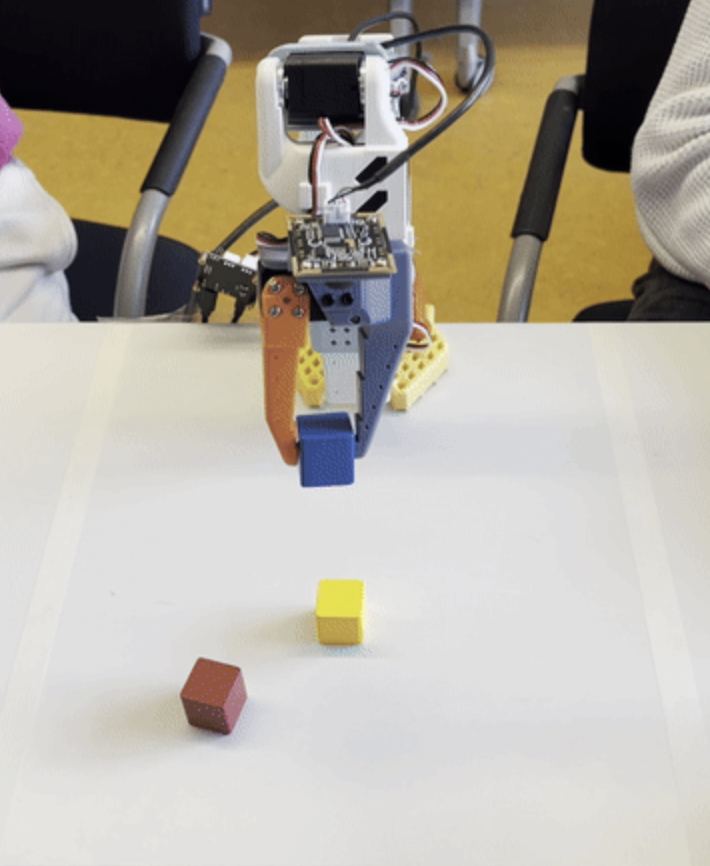
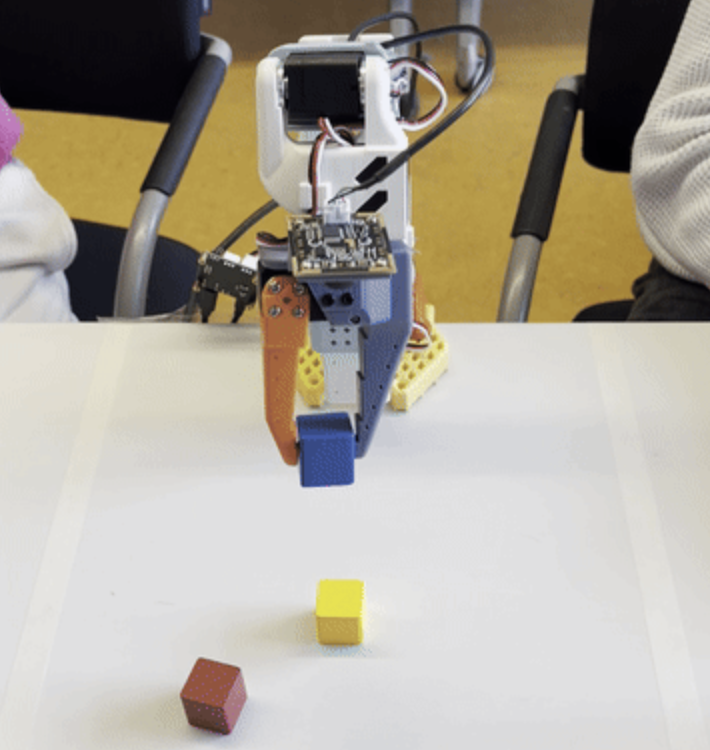
feat: update resources and projects

Changed region(s): [[0.0, 0.0, 1.0, 1.0], [0.9915, 0.9813, 1.0, 1.0], [0.9606, 0.9507, 0.9915, 0.9813]]

diff --git a/assets/css/main.css b/assets/css/main.css
@@ -82,6 +82,21 @@ main h1 {
   border-width: 0.01rem;
 }
 
+.resources-page h2 {
+  font-size: 1.3rem;
+  font-weight: 400;
+  color: var(--default-color);
+  margin-top: 1.5rem;
+}
+
+.resources-page code {
+  font-family: SFMono-Regular, Menlo, Consolas, monospace;
+  color: var(--default-color);
+  background-color: color-mix(in srgb, var(--default-color), transparent 92%);
+  padding: 0.1em 0.35em;
+  border-radius: 0.25rem;
+}
+
 /* Default paragraph style */
 main p {
   text-align: justify;
@@ -350,7 +365,8 @@ footer {
   box-shadow: 0 2px 10px rgba(0, 0, 0, 0.1);
   overflow: hidden;
   transition: transform 0.3s ease, box-shadow 0.3s ease;
-  min-height: 200px;
+  min-height: 240px;
+  width: 100%;
 }
 
 .project-card:hover {
@@ -370,12 +386,15 @@ footer {
   font-weight: 600;
   margin: 0;
   color: #333;
+  text-align: left;
+  border-bottom: none;
 }
 
 .project-date {
   color: var(--accent-color);
-  margin: 0;
+  margin: 0 0 0.15rem 0;
   white-space: nowrap;
+  text-align: left;
 }
 
 .project-tags {
@@ -397,9 +416,9 @@ footer {
 }
 
 .project-thumbnail {
-  flex: 1 1 0;
-  max-width: 50%;
-  min-width: 120px;
+  flex: 0 0 42%;
+  max-width: 42%;
+  min-width: 220px;
   display: flex;
   align-items: center;
   justify-content: center;
@@ -410,7 +429,7 @@ footer {
 .thumbnail-img {
   width: 100%;
   height: 100%;
-  object-fit: cover;
+  object-fit: contain;
   display: block;
 }
 
@@ -433,19 +452,20 @@ footer {
     flex-direction: column-reverse;
   }
   .project-thumbnail {
+    flex: none;
     max-width: 100%;
     width: 100%;
     min-width: auto;
-    height: 150px;
+    height: 220px;
   }
   .project-content {
     padding: 1rem;
   }
-  
+
   .project-title {
     font-size: 1rem;
   }
-  
+
   .project-date {
     font-size: 0.8rem;
   }
@@ -455,11 +475,11 @@ footer {
   .project {
     margin-bottom: 1.5rem;
   }
-  
+
   .project-thumbnail {
-    height: 120px;
+    height: 180px;
   }
-  
+
   .project-content {
     padding: 0.8rem;
   }

diff --git a/_includes/footer.html b/_includes/footer.html
@@ -11,6 +11,6 @@
     </a>
  </div>
 <div id="copyright">
-    &copy; 2026 Giacomo Cirò | Last update: June 2026
+    &copy; 2026 Giacomo Cirò | Last update: July 2026
 </div>
 </footer>

diff --git a/pages/resources.md b/pages/resources.md
@@ -4,7 +4,7 @@ title: Resources
 permalink: /resources/
 ---
 
-<section class="col-md-7 col-12">
+<section class="col-md-7 col-12 resources-page">
 <div class="d-flex justify-content-center quotes-disclaimer">
     <p>
         The resources on this page are shared to inspire curiosity and support learning. If you know of a valuable resource or have something insightful to share, feel free to reach out.
@@ -14,60 +14,71 @@ permalink: /resources/
 
 
 # Open Source
-I believe one of the greatest byproducts of the internet is large-scale collaboration. It fascinates me how people around the world manage to work together to advance open-source projects. I co-founded the [Bocconi Open Source Society (BOSS)](https://b-open.dev) to promote open source at my university, and I contribute to projects whenever I can. Here are some I've worked on:
+I believe one of the greatest byproducts of the internet is large-scale collaboration. People around the world manage to work together to advance open-source projects and build amazing projects. I co-founded the [Bocconi Open Source Society (BOSS)](https://b-open.dev) to promote open source at my university, and I contribute to projects whenever I can. Here are some I've worked on:
 
-- Fixed errors in the [Understanding Deep Learning](https://udlbook.github.io/udlbook/) textbook by Simon J.D. Prince (The MIT Press, 2023).
-- Fixed a bug in [TileDB-Vector-Search](https://github.com/TileDB-Inc/TileDB-Vector-Search/pull/580), a library for efficient out-of-core vector search.
-- Refactored an enum object in the [Conda](https://github.com/conda/conda/pull/15428) package manager.
-- I curate a [collection of code snippets](https://gist.github.com/giacomo-ciro) to improve the quality-of-life during your everyday tasks.
+- [Understanding Deep Learning](https://udlbook.github.io/udlbook/) textbook by Simon J.D. Prince (The MIT Press, 2023).
+- [TileDB-Vector-Search](https://github.com/TileDB-Inc/TileDB-Vector-Search/pull/580), a library for efficient out-of-core vector search.
+- [Conda](https://github.com/conda/conda/pull/15428) package manager.
 
-# Study Material
-Below are some of the resources I have found most valuable for learning, exploring, or reviewing topics in mathematics, statistics, computer science and machine learning:
+Check out my [collection of code snippets](https://gist.github.com/giacomo-ciro) to improve the quality-of-life during your everyday tasks.
 
-- **Mathematics & Statistics**:
-    - [3Blue1Brown](https://www.youtube.com/@3blue1brown/featured): Exceptional visual explanations of quantitative concepts; highly recommended series on transformers and neural networks.
-    - [Applied Linear Statistical Models](https://www.researchgate.net/publication/344587293_Applied_Linear_Statistical_Models) by M. H. Kutner: Foundational textbook for linear models.
-    - [The Elements of Statistical Learning](https://www.sas.upenn.edu/~fdiebold/NoHesitations/BookAdvanced.pdf) by T. Hastie, R. Tibshirani, and J. Friedman: Also used in my undergraduate machine learning course.
+# Resources by topic
+Resources I have found most valuable for learning, exploring, or reviewing different topics.
 
-- **Machine Learning & AI**:
-    - [Pattern Recognition and Machine Learning](https://www.microsoft.com/en-us/research/wp-content/uploads/2006/01/Bishop-Pattern-Recognition-and-Machine-Learning-2006.pdf) by C. M. Bishop: Core reference for pattern recognition and machine learning concepts.
-    - [Understanding Deep Learning](https://udlbook.github.io/udlbook/): Textbook for my graduate deep learning course. The [further reading](https://udlbook.github.io/udlbook/#:~:text=MORE-,Further%20reading,-Other%20articles%2C%20blogs) section is especially well curated.
-    - [Hugging Face Daily Papers](https://huggingface.co/papers): Daily feed of new model releases and research papers, with a focus on recent developments.
-    - [Andrej Karpathy](https://www.youtube.com/@AndrejKarpathy/videos): OpenAI co-founder sharing hands-on, advanced tutorials (e.g., building GPT from scratch).
-    - [Yannic Kilcher](https://www.youtube.com/@YannicKilcher): In-depth paper readings and walkthroughs.
+## Mathematics & Statistics
 
-- **Computer Science & Engineering**:
-    - [Operating System Concepts](https://os.ecci.ucr.ac.cr/slides/Abraham-Silberschatz-Operating-System-Concepts-10th-2018.pdf) by A. Silberschatz: Comprehensive overview of how operating systems work.
-    - [System Design Interview](https://bytes.usc.edu/~saty/courses/docs/data/SystemDesignInterview.pdf) by A. Xu: Concise yet thorough overview of system design, with each chapter focusing on a well-known system and curated further readings.
-    - [Simon Oz](https://www.youtube.com/@szymonozog7862): Comprehensive introduction to GPU architecture and GPU computing.
-    - [CUDA Tutorial](https://cuda-tutorial.readthedocs.io/en/latest/): Beginner-friendly tutorials for getting started with GPU programming using CUDA.
-    - [Tensor and Fully Sharded Data Parallelism](https://substack.com/@martynassubonis/p-154292281): Clear introduction to basic parallel computing concepts..
+- [3Blue1Brown](https://www.youtube.com/@3blue1brown/featured): Exceptional visual explanations of quantitative concepts; highly recommended series on transformers and neural networks.
+
+## Machine Learning & AI
+
+- [Understanding Deep Learning](https://udlbook.github.io/udlbook/): Textbook for my graduate deep learning course. The [further reading](https://udlbook.github.io/udlbook/#:~:text=MORE-,Further%20reading,-Other%20articles%2C%20blogs) section is especially well curated.
+- [Hugging Face Daily Papers](https://huggingface.co/papers): Daily feed of new model releases and research papers (focuses on implementations).
+- [Andrej Karpathy](https://www.youtube.com/@AndrejKarpathy/videos): OpenAI co-founder sharing hands-on, advanced tutorials (e.g., building GPT from scratch).
+- [Yannic Kilcher](https://www.youtube.com/@YannicKilcher): In-depth paper readings and walkthroughs.
+- [Maarten Grootendorst](https://www.maartengrootendorst.com/#:~:text=Here%20are%20a%20couple%20of%20visual%20guides%20that%20I%20am%20particularly%20proud%20of%3A): A psychologist turned AI engineer producing visual guides to ML concepts.
+- [NVIDIA NIM APIs](https://build.nvidia.com/models): API endpoints for many LLMs, several free to use, great for testing projects.
+- [Leaked System Prompts](https://github.com/asgeirtj/system_prompts_leaks): A collection of leaked system prompts from major AI providers.
+
+## Computer Science & Engineering
+
+- [Operating System Concepts](https://os.ecci.ucr.ac.cr/slides/Abraham-Silberschatz-Operating-System-Concepts-10th-2018.pdf): Comprehensive overview of how operating systems work.
+- [How Linux Works: What Every Superuser Should Know](https://nostarch.com/how-linux-works-3rd-edition): Thorough dive into the internals of Linux, aimed at building real systems-level understanding.
+- [System Design Interview](https://bytes.usc.edu/~saty/courses/docs/data/SystemDesignInterview.pdf): Concise yet thorough overview of system design, with each chapter focusing on a well-known system and curated further readings.
+- [Dive Into Design Patterns](https://refactoring.guru/design-patterns/book): Clear, example-driven guide to classic software design patterns.
+- [Simon Oz](https://www.youtube.com/@szymonozog7862): Comprehensive introduction to GPU architecture and GPU computing.
+- [CUDA Tutorial](https://cuda-tutorial.readthedocs.io/en/latest/): Beginner-friendly tutorials for getting started with GPU programming using CUDA.
+- [Tensor and Fully Sharded Data Parallelism](https://substack.com/@martynassubonis/p-154292281): Clear introduction to basic parallel computing concepts.
+- [Cloudflare Tunnel](https://developers.cloudflare.com/cloudflare-one/networks/connectors/cloudflare-tunnel/do-more-with-tunnels/local-management/create-local-tunnel/): Cool tool to expose a local server to the internet without opening ports on your router.
+
+## Finance
+
+- [A Random Walk Down Wall Street](https://www.amazon.com/Random-Walk-Down-Wall-Street/dp/1324035439): A classic and highly recommended book on investing and personal finance.
+- [Educati e Finanziati](https://www.youtube.com/playlist?list=PLfuzpc-H8qcdetz_Zwc5ILnbiG6eek_T8): Excellent personal finance course (Italy-centric).
+- [Money Guy Show](https://moneyguy.com/show/): Excellent personal finance course (US-centric).
+- [How I made $500k with machine learning](https://jspauld.com/post/35126549635/how-i-made-500k-with-machine-learning-and-hft/): Inspiring story of an independent software engineer who deployed a successful HFT strategy in 2009-2010.
+- [Max Dama on HFTs](https://open.spotify.com/episode/4PRVDkZwFiKVEk7XKwKcvo?si=oqOXRBQtTgKHUR3EMcwAjQ): Co-chairman at Headlands Technologies shares valuable insights on high-frequency trading and what it takes to succeed in the field.
+- [Quantitative Trading Summary](https://blog.headlandstech.com/2017/08/03/quantitative-trading-summary/): blog post from Headlands Technologies covering the fundamentals of quantitative trading. The entire blog is worth exploring.
+- [The Elements of Investing](https://www.amazon.com/Elements-Investing-Lessons-Every-Investor/dp/1119851416): A must-read, concise guide to personal finance.
 
 
 # Suggested Readings
-This section features articles, books, and blog posts I find especially insightful and recommend exploring:
-- [Demystifying the American Graduate Admissions Process](https://cs.stanford.edu/~rkarthik/DAGAP.pdf): A Stanford admissions committee member explains in detail the key factors and their weightings considered when reviewing MSc applications at top U.S. graduate schools.
-- [Should You Apply for a PhD in AI (2025-26)?](https://yashbhalgat.github.io/blog/phd-or-not-phd.html): An Oxford VGG PhD student (ex-Meta, ex-Qualcomm) discusses the pros and cons of pursuing a PhD in AI today, given the need of hyperscale clusters and research teams.
+Articles, books, and blog posts worth reading.
+
+- [Demystifying the American Graduate Admissions Process](https://cs.stanford.edu/~rkarthik/DAGAP.pdf): Stanford admissions committee member explains in detail the key factors and their weightings considered when reviewing MSc applications.
+- [Should You Apply for a PhD in AI (2025-26)?](https://yashbhalgat.github.io/blog/phd-or-not-phd.html): Oxford VGG PhD student (ex-Meta, ex-Qualcomm) discusses the pros and cons of pursuing a PhD in AI today, given the need of hyperscale clusters and research teams.
 - [The unconscious process that leads to creativity: how ‘incubation’ works](https://www.theguardian.com/wellness/2025/sep/10/creativity-unconscious-process-incubation): A look at how unconscious mental processes foster creativity.
 - [WhatsApp Encryption Overview](https://www.bitsoffreedom.nl/wp-content/uploads/WhatsApp-Security-Whitepaper.pdf): A technical whitepaper detailing WhatsApp's end-to-end encryption, including cryptographic primitives like AES, HMAC-SHA, and EC-25519.
  - [Doing Well in Your Courses](https://cs.stanford.edu/people/karpathy/advice.html): Andrej Karpathy's practical guide to excelling as an undergraduate student, something I wish I'd found sooner.
  - [How I Became a Linux Kernel Contributor](https://lewboski.dev/blog/linux-kernel): Step-by-step guide to getting your first pull request merged into the Linux kernel.
-
-# Finance
-Here are some resources I found most useful for learning about finance, quant finance, and personal finance, as well as preparing for interviews:
-- [A Random Walk Down Wall Street](https://www.amazon.com/Random-Walk-Down-Wall-Street/dp/1324035439): A classic and highly recommended book on investing and personal finance.
-- [Educati e Finanziati](https://www.youtube.com/playlist?list=PLfuzpc-H8qcdetz_Zwc5ILnbiG6eek_T8): Excellent personal finance course by Prof. Paolo Coletti (Italy-centric).
-- [How I made $500k with machine learning](https://jspauld.com/post/35126549635/how-i-made-500k-with-machine-learning-and-hft/): Inspiring story of an independent software engineer who deployed a successful HFT strategy in 2009-2010.
-- [Max Dama on HFTs](https://open.spotify.com/episode/4PRVDkZwFiKVEk7XKwKcvo?si=oqOXRBQtTgKHUR3EMcwAjQ): Co-chairman at Headlands Technologies shares valuable insights on high-frequency trading and what it takes to succeed in the field.
-- [Money Guy Show](https://moneyguy.com/show/): Light-hearted yet insightful podcast on personal finance, with many online resources (US-centric).
-- [Quantitative Trading Summary](https://blog.headlandstech.com/2017/08/03/quantitative-trading-summary/): Comprehensive blog post from Headlands Technologies covering the fundamentals of quantitative trading. The entire blog is worth exploring.
-- [The Elements of Investing](https://www.amazon.com/Elements-Investing-Lessons-Every-Investor/dp/1119851416): A must-read, concise guide to personal finance.
+ - [My Ten Rules for Negotiating a Job Offer](https://haseebq.com/my-ten-rules-for-negotiating-a-job-offer/): practical guide to negotiating a tech job offer.
+ - [Building AI Agents: From Design Patterns to Production](https://docs.google.com/document/u/0/d/1keM4ZbbfVmdsq3EAkbAliIegOpnnuBf-_KpD4oDOF0o/mobilebasic): Google Senior Director walks through 21 agentic design patterns.
+ - [How to Be Good at Research](https://x.com/itsreallyvivek/article/2064686372737454155): Insightful reflection on how research is actually learned, since it's rarely taught directly.
+ - [ML Job Interviews: The Ultimate Guide](https://silviasapora.github.io/blog/ml-interviews.html): An inside look at landing a Research Scientist role at a top AI lab after an ML PhD.
 
 # Misc
-This section collects useful tips, solutions, and interesting facts I wish I'd known sooner or simply find worth sharing:
+Useful tips, solutions, and interesting facts I wish I'd known sooner or simply find worth sharing.
 
-- Converting .epub to .mobi and then back to .epub can resolve *ERROR 999 Internal Problem* on Amazon Kindle. See the reference [here](https://www.mobileread.com/forums/showthread.php?p=4396847).
-- There is a token count mismatch when using the Google GenAI tokenizer vs. the Google VertexAI tokenizer. See the [issue](https://github.com/googleapis/python-genai/issues/1284) I opened.
+- Converting `.epub` to `.mobi` and then back to `.epub` can resolve `ERROR 999 Internal Problem` on Amazon Kindle. See the reference [here](https://www.mobileread.com/forums/showthread.php?p=4396847).
 - $$r = 1-\sin(\theta)$$ is a [heart curve](https://mathworld.wolfram.com/HeartCurve.html) in polar coordinates.
 
 "| markdownify | target_blank}}

diff --git a/AGENTS.md b/AGENTS.md
@@ -1,0 +1,14 @@
+You help me develop my personal website.
+
+This site is built with Jekyll.
+
+There are four main pages:
+- About (`index.md`)
+- Projects (`pages/projects.md`): list of project cards, source of truth is `_data/projects.yml`.
+- Timeline (`pages/timeline.md`): list of events I find worth mentioning, source of truth is `_data/timeline.yml`.
+- Resources (`pages/resources.md`): list of resources (links, projects, books, blogs etc.) I find worth sharing, source of truth is `_data/resources.yml`.
+- Quotes (`pages/quotes.md`): quotes I collect and find meaningful and worth sharing, source of truth is `_data/quotes.yml`.
+
+You don't need to test your changes on the live website, most of the time I have a live server instance open and I check myself. Only make sure the code is syntactically correct and well organized. 
+
+When unsure about a design choice, both aesthetically and coding-wise, surface the problem and let's discuss.

diff --git a/pages/projects.md b/pages/projects.md
@@ -8,13 +8,11 @@ permalink: /projects/
     {% assign delay = 0 %}
     {% for project in site.data.projects %}
       {% unless site.data.projects_to_exclude contains project.id %}
-      <div class="project col-xl-5 col-12 d-flex justify-content-center" data-aos="fade-in" data-aos-delay="{{ delay }}">
+      <div class="project col-xl-10 col-12 d-flex justify-content-center" data-aos="fade-in" data-aos-delay="{{ delay }}">
         <div class="project-card d-flex">
           <div class="project-content d-flex flex-column justify-content-start">
-            <div class="d-flex flex-row align-items-top justify-content-between mb-2">
-              <h1 class="project-title">{{ project.title }}</h1>
-              <h2 class="project-date">{{ project.date }}</h2>
-            </div>
+            <h2 class="project-date">{{ project.date }}</h2>
+            <h1 class="project-title">{{ project.title }}</h1>
             <h2 class="project-tags">{{ project.tags }}</h2>
             <p class="project-description">{{ project.description }}</p>
             {% if project.links %}

diff --git a/index.md b/index.md
@@ -23,9 +23,9 @@ I am currently pursuing a [MSc in Artificial Intelligence](https://www.uniboccon
 
 My passion lies in Mathematics and Computer Science, and I aim at a career as Researcher.
 
-I am currently doing my MSc Thesis at the [Computer Vision and Geometry Group (CVG)](https://cvg.ethz.ch/) at [ETH Zurich](https://ethz.ch/en.html), under the supervision of [Dr. Zuria Bauer](https://zuriabauer.com/), [Prof. Marc Pollefeys](https://people.inf.ethz.ch/marc.pollefeys/) and [Prof. Chiara Plizzari](https://chiaraplizz.github.io/). I am working on 4D scene understanding and dynamic objects representation.
+I am currently doing my MSc Thesis at the [Computer Vision and Geometry Group (CVG)](https://cvg.ethz.ch/) at [ETH Zurich](https://ethz.ch/en.html), under the supervision of [Dr. Zuria Bauer](https://zuriabauer.com/), [Prof. Marc Pollefeys](https://people.inf.ethz.ch/marc.pollefeys/) and [Prof. Chiara Plizzari](https://chiaraplizz.github.io/).
 
-Previosuly, I spent two years as a Machine Learning Researcher at the [Bocconi Institute for Data Science and Analytics](https://bidsa.unibocconi.eu/?_gl=1*vwq429*_up*MQ..*_ga*NTg0NTkzNzg4LjE3MzI0ODA4MDc.*_ga_FMVFTTB8Q4*MTczMjQ4MDgwNS4xLjEuMTczMjQ4MDg3MS4wLjAuMA..) and the [AIRC Institute for Molecular Biology](https://www.ifom.eu/it/), under the supervision of Professor [Francesca Buffa](https://cs.unibocconi.eu/people/francesca-buffa). My work focused on exploring the scaling laws of deep learning models in transcriptomics and developing novel architectures for gene expression modeling.
+Previously, I spent two years as a Machine Learning Researcher at the [Bocconi Institute for Data Science and Analytics](https://bidsa.unibocconi.eu/?_gl=1*vwq429*_up*MQ..*_ga*NTg0NTkzNzg4LjE3MzI0ODA4MDc.*_ga_FMVFTTB8Q4*MTczMjQ4MDgwNS4xLjEuMTczMjQ4MDg3MS4wLjAuMA..) and the [AIRC Institute for Molecular Biology](https://www.ifom.eu/it/), under the supervision of Professor [Francesca Buffa](https://cs.unibocconi.eu/people/francesca-buffa). My work focused on exploring the scaling laws of deep learning models in transcriptomics and developing novel architectures for gene expression modeling.
 
 I also want to connect minds, not only layers. For this reason, I co-founded [Bocconi Students for Machine Learning (BSML)](https://www.bsmachinelearning.com/), the first machine learning project-incubator at Bocconi University.
 " | markdownify }}

diff --git a/CLAUDE.md b/CLAUDE.md
@@ -1,0 +1,1 @@
[email redacted]